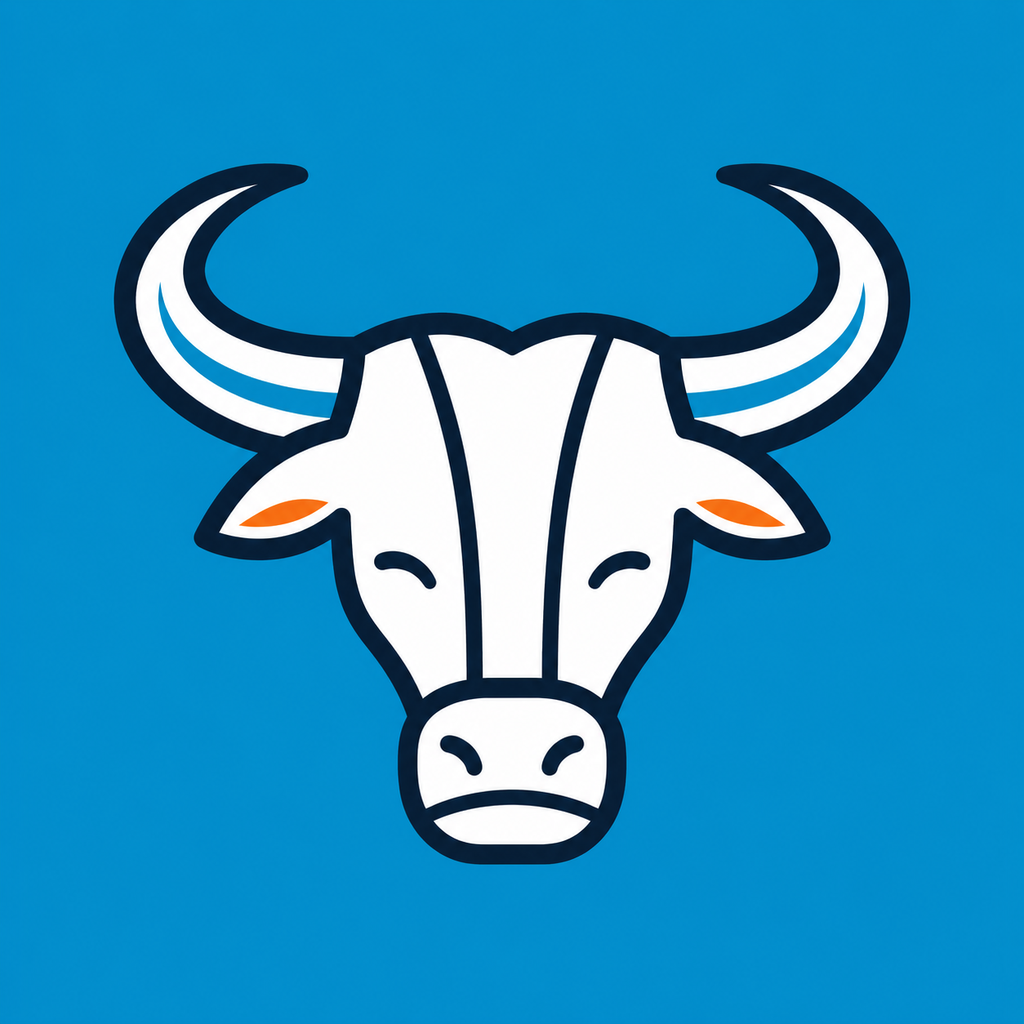
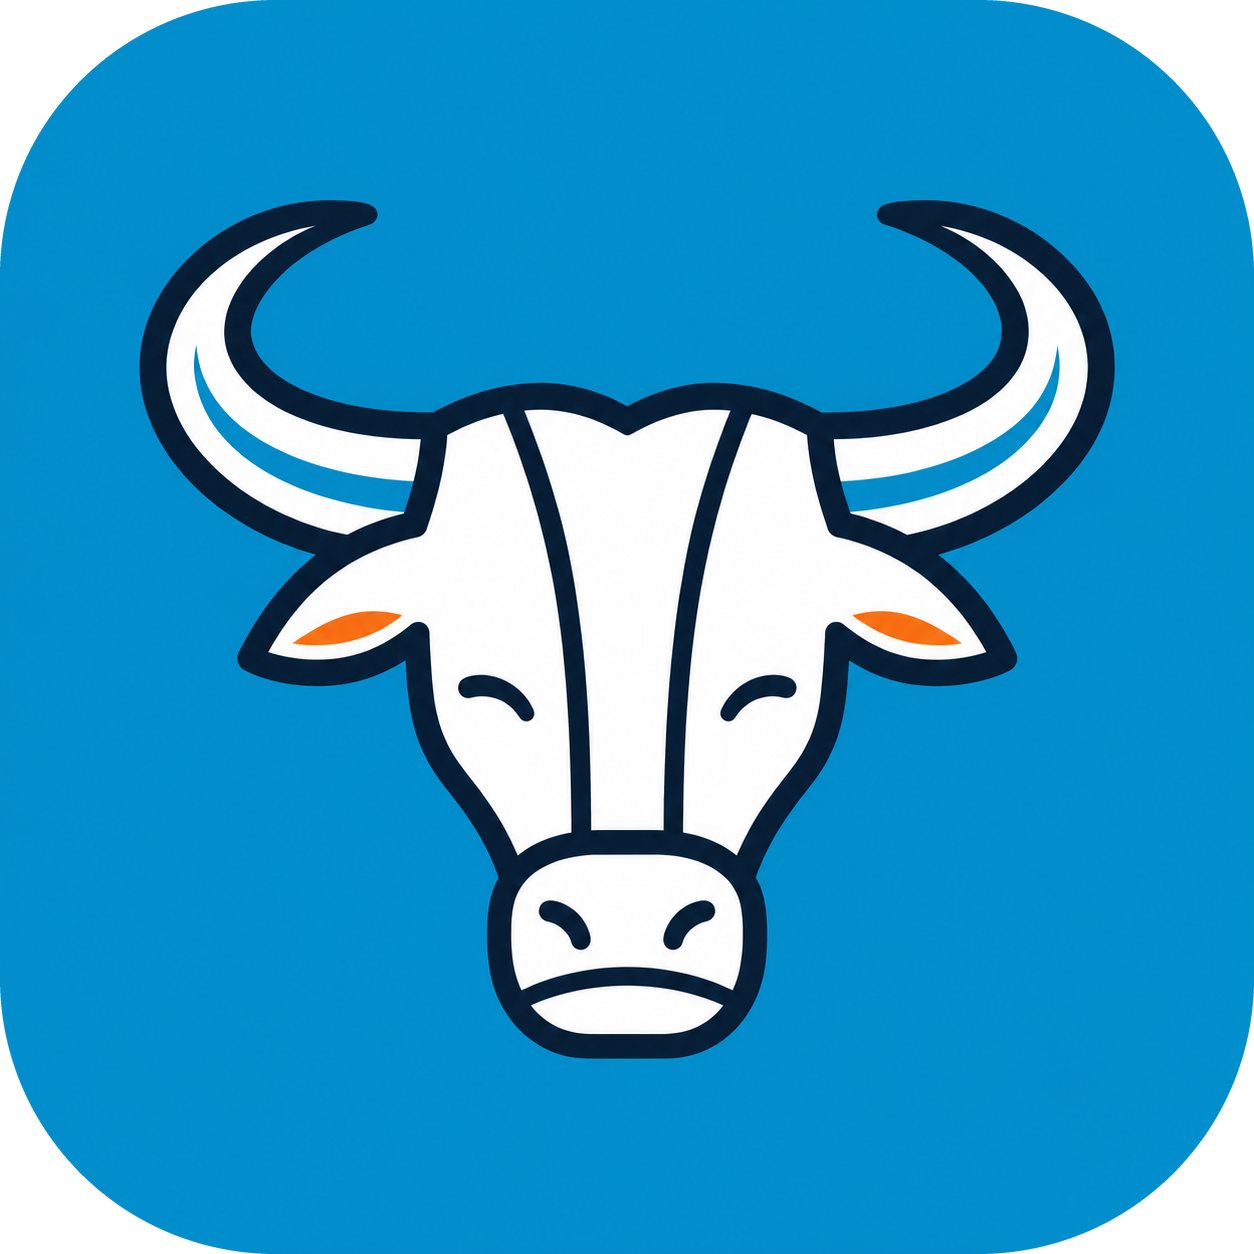
修复桌面端知识库创建与 macOS 弹窗问题
1. 将知识库创建/重命名从 window.prompt 改为页面内 Dialog，避免 Electron 打包态下原生弹窗失效。\n2. 将 Electron 主进程与 preload 的命名导入改为默认导入解构，并升级到 43.0.0-alpha.5，规避 Safe Storage 触发 Keychain 授权弹窗的问题。\n3. 将应用内与打包资源中的牛头 logo 统一处理为圆角 mac 风格图标，并同步更新 .png 与 .icns 资源。\n4. 重新生成 release 产物，确保 v1.0.0 的桌面包包含上述修复。

diff --git a/frontend/src/app/components/pages/KnowledgeBasePage.tsx b/frontend/src/app/components/pages/KnowledgeBasePage.tsx
@@ -121,10 +121,16 @@ export default function KnowledgeBasePage({ openReader }: KnowledgeBasePageProps
     setPromptOpen(true);
   };
 
-  const handleRenameKb = async (kb: KnowledgeBase) => {
+  const handleRenameKb = (kb: KnowledgeBase) => {
     setRenameTarget(kb);
     setPromptValue(kb.name);
     setPromptOpen(true);
+  };
+
+  const closePrompt = () => {
+    setPromptOpen(false);
+    setRenameTarget(null);
+    setPromptValue('');
   };
 
   const handleUpload = async (kbId: string, file: File) => {
@@ -201,11 +207,9 @@ export default function KnowledgeBasePage({ openReader }: KnowledgeBasePageProps
         await refreshKbs();
         setSelectedKbId(created.id);
       }
+      closePrompt();
     } catch (err) {
       alert(renameTarget ? '修改失败: ' + (err instanceof Error ? err.message : '未知错误') : '创建失败: ' + (err instanceof Error ? err.message : '未知错误'));
-    } finally {
-      setPromptOpen(false);
-      setRenameTarget(null);
     }
   };
 
@@ -614,35 +618,42 @@ export default function KnowledgeBasePage({ openReader }: KnowledgeBasePageProps
     </div>
 
       {/* 知识库名称输入对话框（替代已废弃的 window.prompt） */}
-      <Dialog open={promptOpen} onOpenChange={(open) => { if (!open) setRenameTarget(null); setPromptOpen(open); }}>
-        <DialogContent className="sm:max-w-md" onKeyDown={(e) => { if (e.key === 'Enter' && promptValue.trim()) void handlePromptConfirm(); }}>
+      <Dialog open={promptOpen} onOpenChange={(open) => { if (open) setPromptOpen(true); else closePrompt(); }}>
+        <DialogContent className="sm:max-w-md">
           <DialogHeader>
             <DialogTitle>{renameTarget ? '修改知识库名称' : '创建知识库'}</DialogTitle>
           </DialogHeader>
-          <Input
-            value={promptValue}
-            onChange={(e) => setPromptValue(e.target.value)}
-            placeholder="请输入知识库名称"
-            autoFocus
-            className="mt-2"
-          />
-          <DialogFooter>
-            <button
-              type="button"
-              onClick={() => { setPromptOpen(false); setRenameTarget(null); }}
-              className="rounded-lg border border-slate-200 px-4 py-2 text-sm text-slate-700 transition-colors hover:bg-slate-50"
-            >
-              取消
-            </button>
-            <button
-              type="button"
-              onClick={() => void handlePromptConfirm()}
-              disabled={!promptValue.trim()}
-              className="rounded-lg bg-indigo-600 px-4 py-2 text-sm text-white transition-colors hover:bg-indigo-700 disabled:opacity-50"
-            >
-              确定
-            </button>
-          </DialogFooter>
+          <form
+            className="space-y-4"
+            onSubmit={(e) => {
+              e.preventDefault();
+              void handlePromptConfirm();
+            }}
+          >
+            <Input
+              value={promptValue}
+              onChange={(e) => setPromptValue(e.target.value)}
+              placeholder="请输入知识库名称"
+              autoFocus
+              className="mt-2"
+            />
+            <DialogFooter>
+              <button
+                type="button"
+                onClick={closePrompt}
+                className="rounded-lg border border-slate-200 px-4 py-2 text-sm text-slate-700 transition-colors hover:bg-slate-50"
+              >
+                取消
+              </button>
+              <button
+                type="submit"
+                disabled={!promptValue.trim()}
+                className="rounded-lg bg-indigo-600 px-4 py-2 text-sm text-white transition-colors hover:bg-indigo-700 disabled:opacity-50"
+              >
+                确定
+              </button>
+            </DialogFooter>
+          </form>
         </DialogContent>
       </Dialog>
     </>

diff --git a/frontend/electron/main.js b/frontend/electron/main.js
@@ -1,8 +1,10 @@
-import { app, BrowserWindow, dialog } from 'electron';
+import electron from 'electron';
 import { spawn } from 'node:child_process';
 import fs from 'node:fs';
 import path from 'node:path';
 import { fileURLToPath } from 'node:url';
+
+const { app, BrowserWindow, dialog } = electron;
 
 const __filename = fileURLToPath(import.meta.url);
 const __dirname = path.dirname(__filename);

diff --git a/frontend/electron/preload.js b/frontend/electron/preload.js
@@ -1,4 +1,6 @@
-import { contextBridge } from 'electron';
+import electron from 'electron';
+
+const { contextBridge } = electron;
 
 contextBridge.exposeInMainWorld('anniuRuntime', {
   apiBase: process.env.ANNIU_API_BASE || 'http://127.0.0.1:8000',